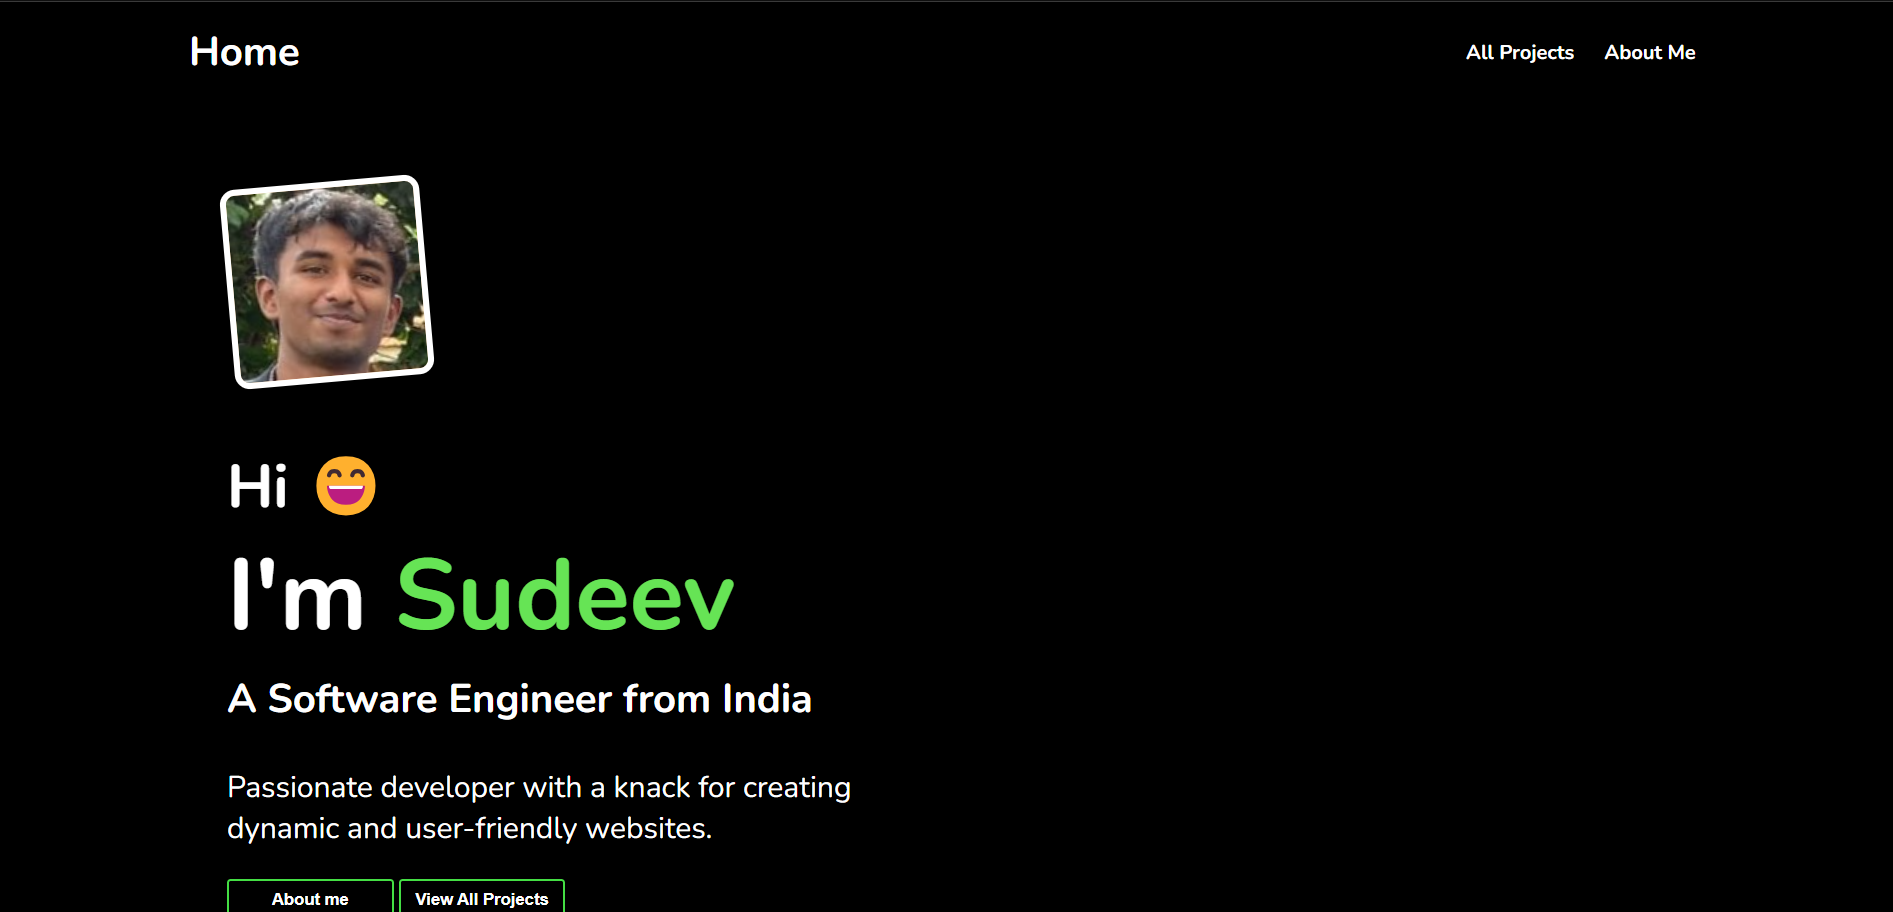
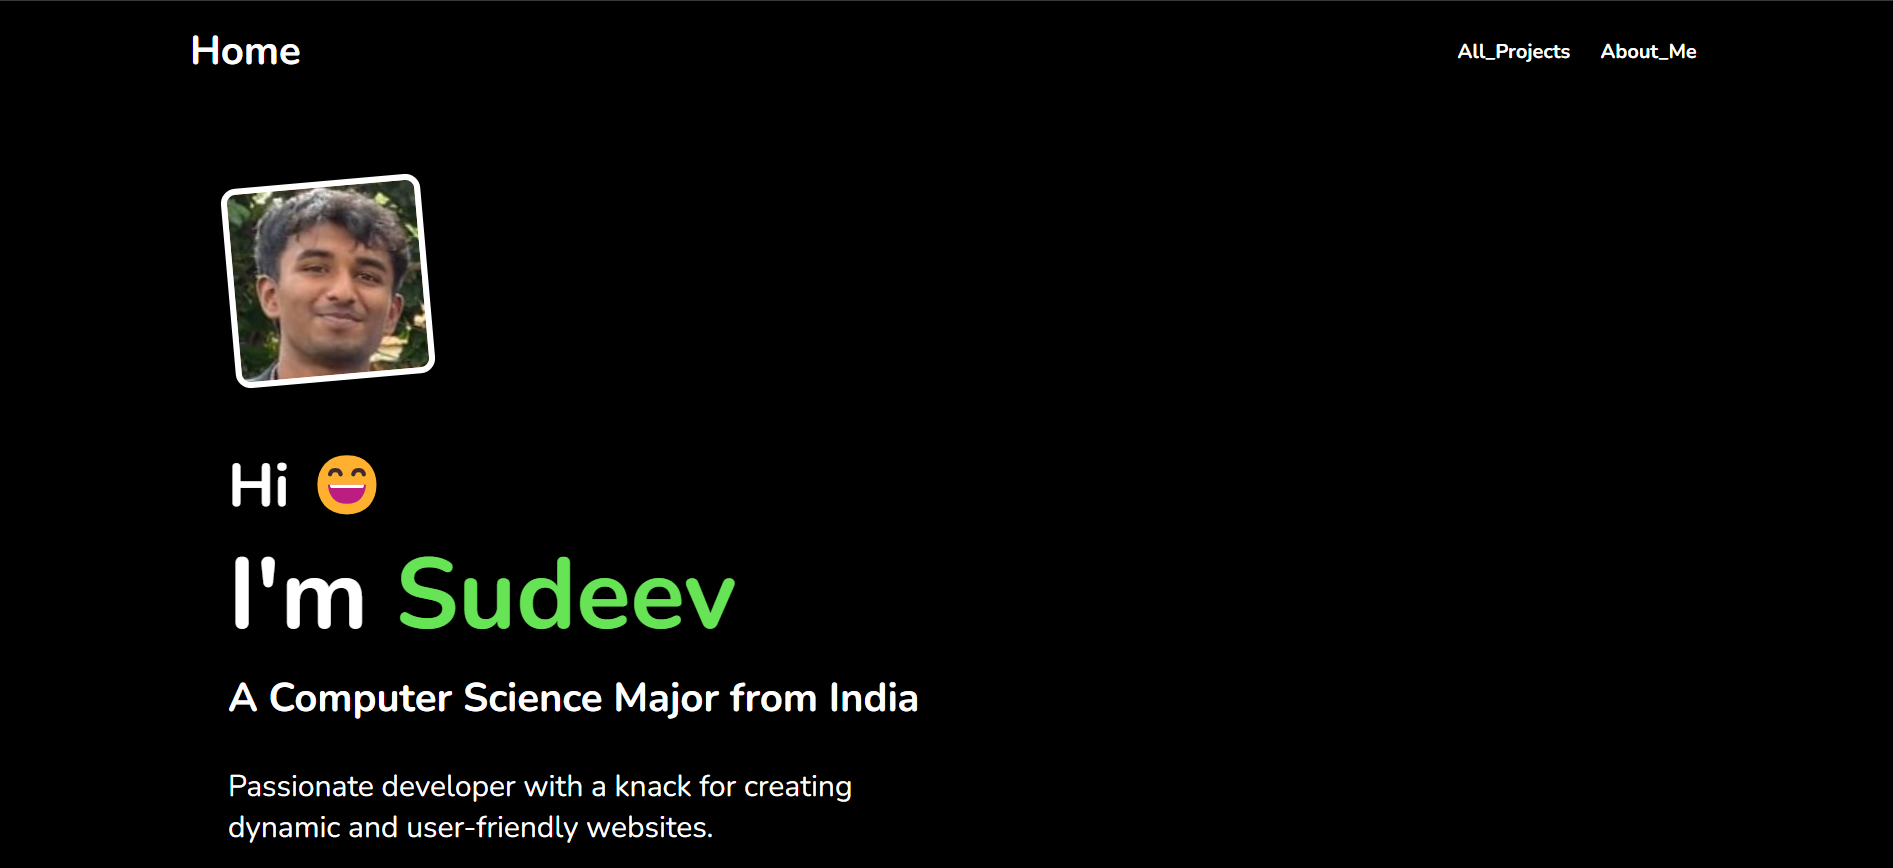
Change Index Text

diff --git a/portfolio/templates/portfolio/index.html b/portfolio/templates/portfolio/index.html
@@ -19,7 +19,7 @@
   <p>
     <span class="enlarge">Hi 😄</span>
     <br><span class="enlarger" id="big-name-intro">I'm <span class="light-green">Sudeev</span></span> 
-    <br><span class="enmini">A Software Engineer from India</span> 
+    <br><span class="enmini">A Computer Science Major from India</span> 
     <br><br>Passionate developer with a knack for creating 
     <br>dynamic and user-friendly websites.
     <div>
